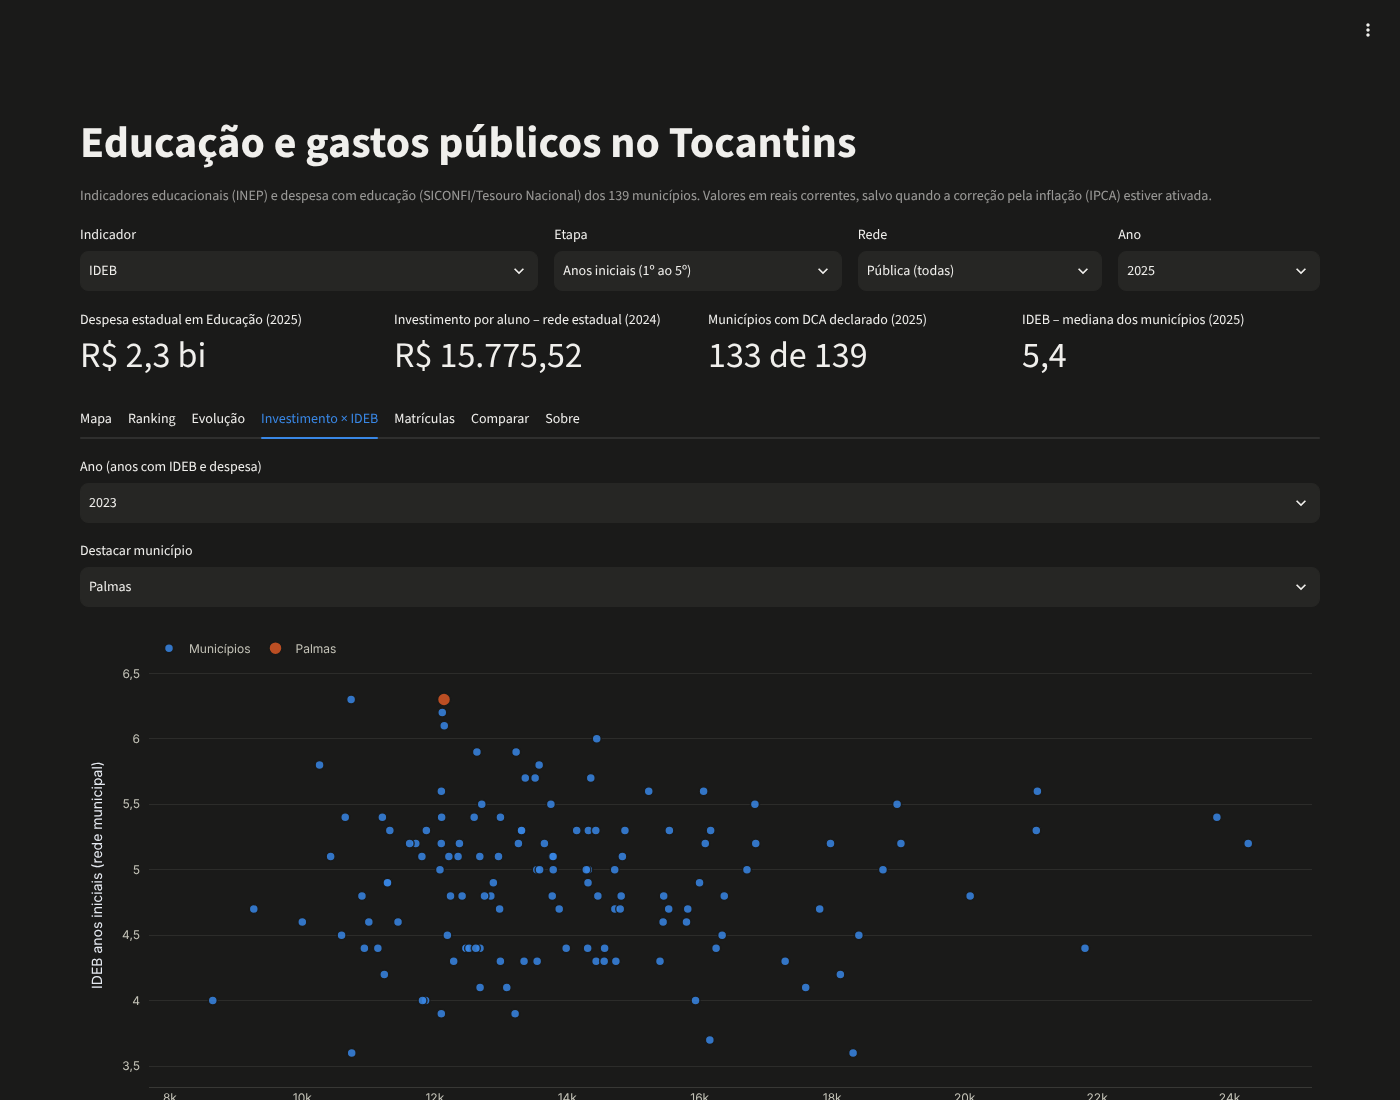
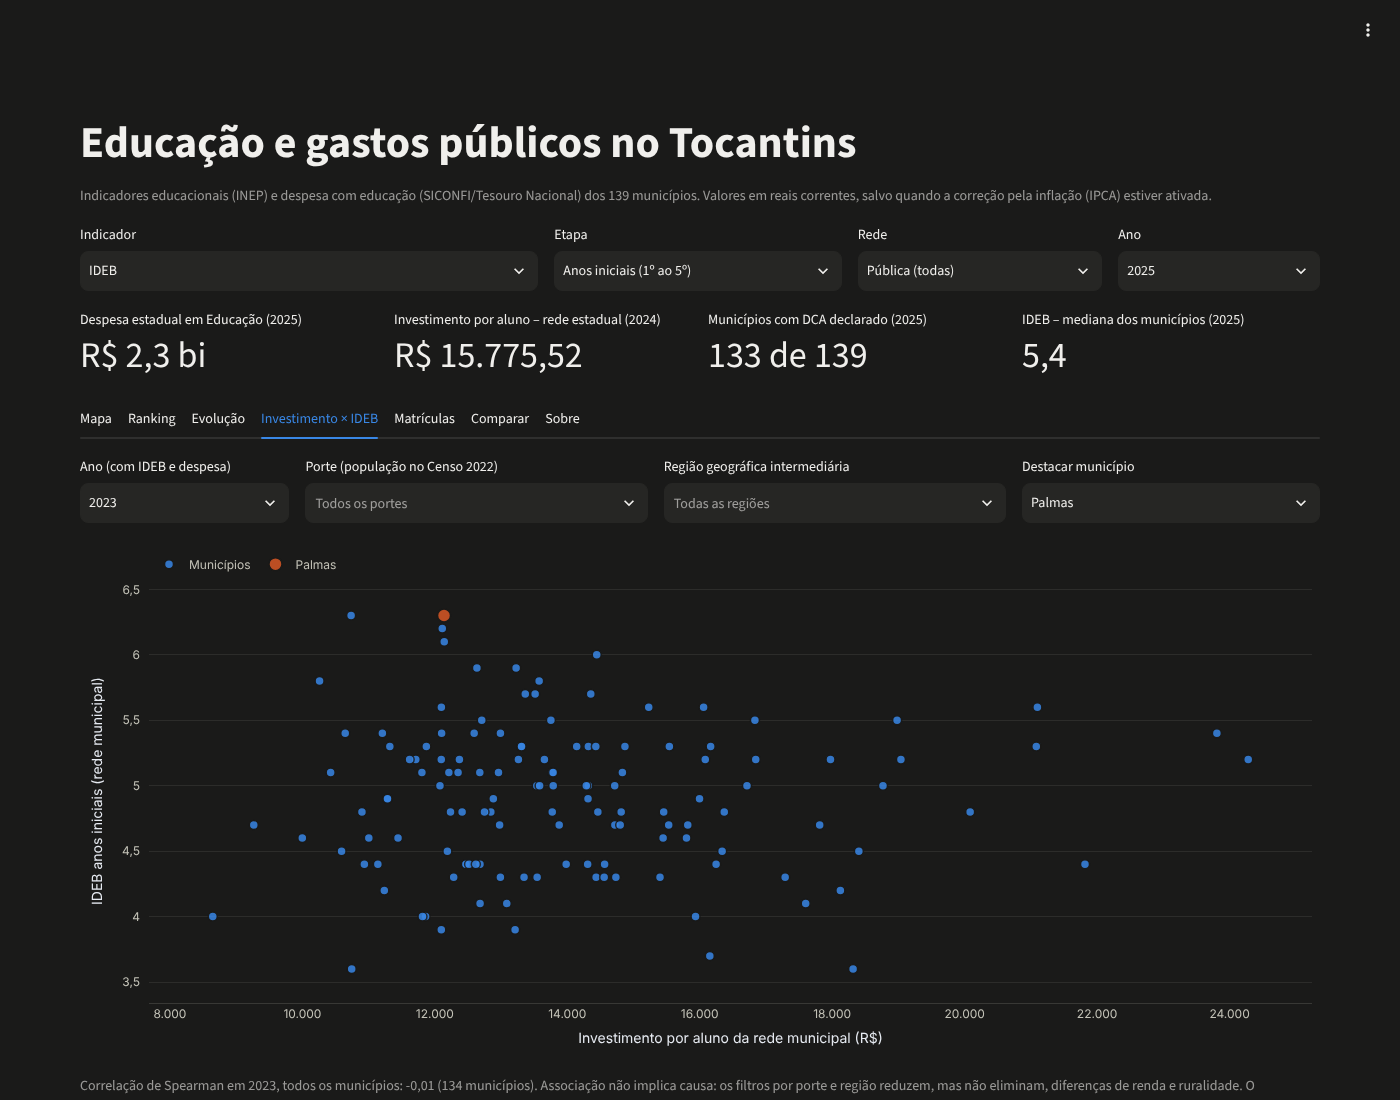
feat(painel): filtros por porte e região em investimento x IDEB
- faixas de população do Censo 2022 (até 5 mil, 5-10 mil, 10-20 mil, acima de
  20 mil) e região geográfica intermediária, combináveis
- correlação de Spearman recalculada no recorte; aviso abaixo de 15
  municípios e não calculada abaixo de 5
- eixo do investimento no formato pt-BR; capturas atualizadas

Claude-Session: https://claude.ai/code/session_01RJwzVpxwH6RxEcpT1TuGAa

diff --git a/app/painel.py b/app/painel.py
@@ -297,11 +297,24 @@ with abas[3]:
     inv = d["investimento"].dropna(subset=["ideb_anos_iniciais", "investimento_por_aluno"])
     anos_inv = sorted(inv["ano"].unique(), reverse=True)
     if anos_inv:
-        ano_inv = st.selectbox("Ano (anos com IDEB e despesa)", anos_inv, key="ano_inv")
-        base = inv[inv["ano"] == ano_inv]
-        destaque_inv = st.selectbox(
+        f1, f2, f3, f4 = st.columns([1, 1.6, 1.6, 1.4])
+        ano_inv = f1.selectbox("Ano (com IDEB e despesa)", anos_inv, key="ano_inv")
+        faixas = f2.multiselect(
+            "Porte (população no Censo 2022)",
+            [rotulo for rotulo, _, _ in ind.FAIXAS_POPULACAO],
+            placeholder="Todos os portes",
+            key="faixas_inv",
+        )
+        regioes = f3.multiselect(
+            "Região geográfica intermediária",
+            sorted(municipios["regiao_intermediaria"].dropna().unique()),
+            placeholder="Todas as regiões",
+            key="regioes_inv",
+        )
+        destaque_inv = f4.selectbox(
             "Destacar município", nomes, index=indice("Palmas"), key="dest_inv"
         )
+        base = ind.filtrar_municipios(inv[inv["ano"] == ano_inv], municipios, faixas, regioes)
         fig = go.Figure()
         for nome_grupo, grupo, cor, tamanho in [
             ("Municípios", base[base["nome_municipio"] != destaque_inv], SERIE_1, 9),
@@ -325,18 +338,34 @@ with abas[3]:
                     ),
                 )
             )
-        # Spearman = Pearson sobre os postos (evita depender do scipy)
-        correlacao = base["investimento_por_aluno"].rank().corr(base["ideb_anos_iniciais"].rank())
+        correlacao = ind.spearman(
+            base["investimento_por_aluno"],
+            base["ideb_anos_iniciais"],
+            minimo=ind.MINIMO_CALCULO_CORRELACAO,
+        )
         fig.update_layout(
             xaxis_title="Investimento por aluno da rede municipal (R$)",
+            xaxis_tickformat=",.0f",
             yaxis_title="IDEB anos iniciais (rede municipal)",
         )
         st.plotly_chart(layout(fig, 520), width="stretch")
+        recorte_txt = (
+            " · ".join(p for p in (", ".join(faixas), ", ".join(regioes)) if p)
+            or "todos os municípios"
+        )
+        if len(base) < ind.MINIMO_CORRELACAO:
+            st.warning(
+                f"Recorte com {len(base)} municípios ({recorte_txt}): poucos pontos para "
+                "interpretar a correlação.",
+                icon=":material/warning:",
+            )
         st.caption(
-            f"Correlação de Spearman em {ano_inv}: {ind.numero(correlacao, 2)} "
-            f"({len(base)} municípios). Associação não implica causa: renda, porte e "
-            "ruralidade não estão controlados. O investimento é a despesa liquidada na função "
-            "Educação dividida pelas matrículas da rede municipal — não é o valor oficial de MDE."
+            f"Correlação de Spearman em {ano_inv}, {recorte_txt}: "
+            f"{ind.numero(correlacao, 2) if correlacao is not None else 'não calculada'} "
+            f"({len(base)} municípios). Associação não implica "
+            "causa: os filtros por porte e região reduzem, mas não eliminam, diferenças de "
+            "renda e ruralidade. O investimento é a despesa liquidada na função Educação "
+            "dividida pelas matrículas da rede municipal — não é o valor oficial de MDE."
         )
 
 # --- matrículas ---------------------------------------------------------------------------

diff --git a/app/indicadores.py b/app/indicadores.py
@@ -228,3 +228,59 @@ def csv_tabela(tabela: pd.DataFrame, indicador: str, ano: int, unidade_valor: st
     saida.insert(1, "ano", ano)
     saida["unidade"] = unidade_valor
     return saida.to_csv(sep=";", decimal=",", index=False).encode("utf-8-sig")
+
+
+#: Faixas de população (Censo 2022). No Tocantins: 80, 31, 19 e 9 municípios.
+FAIXAS_POPULACAO = (
+    ("Até 5 mil", 0, 5_000),
+    ("5 a 10 mil", 5_000, 10_000),
+    ("10 a 20 mil", 10_000, 20_000),
+    ("Acima de 20 mil", 20_000, None),
+)
+#: Abaixo deste número de municípios a correlação é exibida com alerta.
+MINIMO_CORRELACAO = 15
+#: Abaixo deste número a correlação nem é calculada (seria enganosa).
+MINIMO_CALCULO_CORRELACAO = 5
+
+
+def faixa_populacao(populacao) -> str | None:
+    if ausente(populacao):
+        return None
+    for rotulo, minimo, maximo in FAIXAS_POPULACAO:
+        if populacao >= minimo and (maximo is None or populacao < maximo):
+            return rotulo
+    return None
+
+
+def filtrar_municipios(
+    base: pd.DataFrame,
+    municipios: pd.DataFrame,
+    faixas: list[str] | None = None,
+    regioes: list[str] | None = None,
+) -> pd.DataFrame:
+    """Mantém em ``base`` só os municípios das faixas de população e regiões escolhidas.
+
+    Lista vazia ou ``None`` não filtra aquela dimensão.
+    """
+    atributos = municipios[["cod_municipio", "regiao_intermediaria", "populacao_censo_2022"]].copy()
+    atributos["faixa_populacao"] = atributos["populacao_censo_2022"].map(faixa_populacao)
+    resultado = base.merge(
+        atributos[["cod_municipio", "regiao_intermediaria", "faixa_populacao"]],
+        on="cod_municipio",
+        how="left",
+        suffixes=("", "_dim"),
+    )
+    if faixas:
+        resultado = resultado[resultado["faixa_populacao"].isin(faixas)]
+    if regioes:
+        resultado = resultado[resultado["regiao_intermediaria"].isin(regioes)]
+    return resultado.reset_index(drop=True)
+
+
+def spearman(x: pd.Series, y: pd.Series, minimo: int = 3) -> float | None:
+    """Correlação de Spearman (Pearson sobre os postos); None com menos de ``minimo`` pares."""
+    pares = pd.DataFrame({"x": x, "y": y}).dropna()
+    if len(pares) < minimo:
+        return None
+    valor = pares["x"].rank().corr(pares["y"].rank())
+    return None if ausente(valor) else float(valor)

diff --git a/tests/test_painel.py b/tests/test_painel.py
@@ -232,3 +232,33 @@ def test_unidade_por_tipo_de_indicador():
     assert ind.unidade(mde) == "%"
     invest = ind.INDICADORES["Investimento por aluno (rede municipal)"]
     assert ind.unidade(invest) == "R$ correntes"
+
+
+def test_faixa_populacao():
+    assert ind.faixa_populacao(2576) == "Até 5 mil"
+    assert ind.faixa_populacao(5000) == "5 a 10 mil"
+    assert ind.faixa_populacao(10325) == "10 a 20 mil"
+    assert ind.faixa_populacao(302692) == "Acima de 20 mil"
+    assert ind.faixa_populacao(None) is None
+
+
+def test_filtrar_municipios_por_porte_e_regiao():
+    municipios = pd.DataFrame(
+        {
+            "cod_municipio": [1, 2, 3],
+            "regiao_intermediaria": ["Palmas", "Palmas", "Gurupi"],
+            "populacao_censo_2022": [3000, 300000, 4000],
+        }
+    )
+    base = pd.DataFrame({"cod_municipio": [1, 2, 3], "x": [1, 2, 3]})
+    assert ind.filtrar_municipios(base, municipios)["x"].tolist() == [1, 2, 3]
+    assert ind.filtrar_municipios(base, municipios, ["Até 5 mil"])["x"].tolist() == [1, 3]
+    assert ind.filtrar_municipios(base, municipios, ["Até 5 mil"], ["Palmas"])["x"].tolist() == [1]
+    assert ind.filtrar_municipios(base, municipios, [], ["Gurupi"])["x"].tolist() == [3]
+
+
+def test_spearman():
+    assert ind.spearman(pd.Series([1, 2, 3, 4]), pd.Series([10, 20, 30, 40])) == pytest.approx(1)
+    assert ind.spearman(pd.Series([1, 2, 3]), pd.Series([3, 2, 1])) == pytest.approx(-1)
+    assert ind.spearman(pd.Series([1, 2]), pd.Series([1, 2])) is None
+    assert ind.spearman(pd.Series([1, 2, 3]), pd.Series([1, 2, 3]), minimo=5) is None
